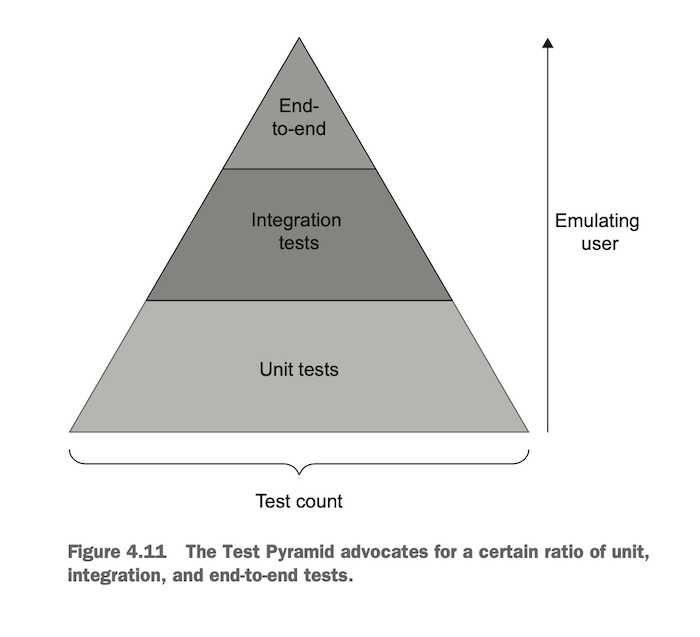
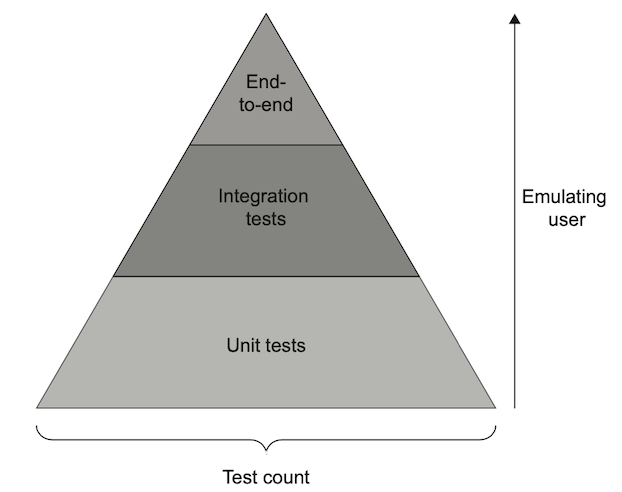
Moving cover image and cleaning up some articles.

Changed region(s): [[0.0611, 0.0305, 0.9775, 0.9146], [0.3055, 0.0305, 0.5498, 0.3049], [0.3666, 0.9451, 0.5193, 1.0]]

diff --git a/theme/templates/index.html b/theme/templates/index.html
@@ -28,11 +28,7 @@ The notes are collecting using my interpretation of the <a href="https://en.wiki
 {% for article in articles_page.object_list %}
 <li>
   <article class="post">
-    <div class="cover-image">
-      {% if article.cover %}
-      <img src="{{ article.cover }}" />
-      {% endif %}
-    </div>
+    
     <div class="article-content">
       <h2>
         <a href="/{{ article.url }}" rel="bookmark" title="Permalink to {{ article.title|striptags }}">{{ article.title }}</a>
@@ -56,11 +52,16 @@ The notes are collecting using my interpretation of the <a href="https://en.wiki
       </div>
 
       <div class="article-summary">
-        {{ article.summary|striptags }}
+        <div class="cover-image">
+          {% if article.cover %}
+          <img src="{{ article.cover }}" />
+          {% endif %}
+        </div>
+        {{ article.summary }}
       </div>
 
       <div class="article-link">
-        <a href="{{ article.url }}">Read More</a>
+        <a href="{{ SITEURL}}/{{ article.url }}">Read More</a>
       </div>
 
       <div class="clear"></div>

diff --git a/theme/templates/base.html b/theme/templates/base.html
@@ -57,7 +57,7 @@
         </span>
 
         {%- for tag, articles in (tags|sort_by_article_count)[:5] -%}
-          <a {% if page_name and page_name|string in tag.url|string %}class="active"{% endif %} href="{{ SITEURL}}/{{ tag.url }}">#{{ tag }} ({{ articles|count }})</a> 
+          <a {% if page_name and page_name|string in tag.url|string %}class="active"{% endif %} href="{{ SITEURL}}/{{ tag.url }}">{{ tag }} ({{ articles|count }})</a> 
         
         {% endfor %}
         <a {% if page_name == "tags" %}class="active"{% endif %} href="/tags.html">More</a>

diff --git a/theme/static/css/style.css b/theme/static/css/style.css
@@ -388,11 +388,6 @@ pre.prettyprint {
   margin-bottom: 25px;
 }
 
-.cover-image img {
-  width: 120px;
-  margin-right: 20px;
-}
-
 .article-link {
   font-size: 1em;
   font-weight: bold;
@@ -416,4 +411,10 @@ ul.pagination li {
 
 .article-content h2 {
   font-size: 1.4em;
+}
+
+.cover-image img {
+  float: left;
+  margin: 0 15px 10px 0;
+  max-width: 300px;
 }

diff --git a/theme/templates/article.html b/theme/templates/article.html
@@ -33,6 +33,12 @@
         </div>
 
         <div class="article-content">
+          <div class="cover-image">
+            {% if article.cover %}
+            <img src="{{ article.cover }}" />
+            {% endif %}
+          </div>
+
           {{ article.content }}
         </div>
 

diff --git a/pelicanconf.py b/pelicanconf.py
@@ -55,3 +55,5 @@ JINJA_FILTERS = {
         sorted,
         key=lambda tags: len(tags[1]),
         reverse=True)} # reversed for descending order
+
+SUMMARY_MAX_LENGTH = 25

diff --git a/public/permanent/4 pillars of good unit tests.md b/public/permanent/4 pillars of good unit tests.md
@@ -1,9 +1,9 @@
 ---
 title: 4 Pillars of Good Unit Tests
 date: 2021-04-04 20:00
+summary: Khorikov's 4 pillars of good unit tests
 tags:
-  - AutomatedTesting
-  - Programming 
+  - Automated Testing
 ---
 
 Khorikov describes 4 pillars of a good unit test:
@@ -15,10 +15,8 @@ Khorikov describes 4 pillars of a good unit test:
 
 He claims that the first 3 are mutually exclusive and provide a 2-out-of-3 trade off similar to the [[CAP Theorem]] trade off. Since maintainability is not mutually exclusive, it should always be maximised. However, some types of tests lend themselves to more maintainabiity: e2e tests for example require a lot more code than a unit test.
 
-Khorikov claims that resistance to refactoring should be maximised always, as it is either binary: it is or it isn't. The trade off is then between resistance to refactoring or fast feedback.
+Resistance to refactoring should be maximised always, as it is either binary: it is or it isn't. The trade off is then between resistance to refactoring or fast feedback.
 
 An extreme example of this is an e2e test. It is extremely resistant to refactoring but not usually very fast. Another example of this is a heavily mocked method, it is very fast but may not provide good protection against regressions, since the mock can easily make assumptions that don't exist. This example would also fail to score high in the resistant to refactoring pillar.
 
-References:
-
-* [[Unit Testing Principles, Practices and Patterns]] (4. The four pillars of a good unit test)
+[@khorikovUnitTestingPrinciples2020] *(Chapter 4)*

diff --git a/public/permanent/ray.md b/public/permanent/ray.md
@@ -1,13 +1,17 @@
 ---
 title: Ray
 date: 2020-11-04 00:00
+summary: A line-like figure that continue indefinitely in one direction
+cover: /_media/ray.png
 tags:
-  - Maths
+  - Game Math
   - Geometry
 ---
 
-In geometry, a ray is a line-like figure that starts at some point - called the "endpoint" or "vertex" - and continues indefinitely in one direction. It is described in formal notation using 2 points with an arrow above it pointing in the direction of the ray, for example: $\overrightarrow{AB}$. The order of the endpoints describes the direction of the ray and cannot be inversed: $\overrightarrow{AB} \neq \overrightarrow{BA}$. As an example, this is the ray $\overrightarrow{AB}$ in Ascii art: `A ---- B ->`
+In geometry, a ray is a line-like figure that starts at some point - called the "endpoint" or "vertex" - and continues indefinitely in one direction. It is described in formal notation using 2 points with an arrow above it pointing in the direction of the ray, for example: $\overrightarrow{AB}$.
 
-References:
+The order of the endpoints describes the direction of the ray. It cannot be inversed.
 
-* [[Basic geometry language and labels]] (Ray)
+$\overrightarrow{AB} \neq \overrightarrow{BA}$.
+
+As an example, this is the ray $\overrightarrow{AB}$ in Ascii art: `A ---- B ->`

diff --git a/public/permanent/Black-box testing.md b/public/permanent/Black-box testing.md
@@ -2,12 +2,14 @@
 title: Black-box testing
 date: 2021-04-04 00:00
 tags:
-  - AutomatedTesting
+  - Automated Testing
+summary: Tests written without knowledge of software's internal structure
 ---
 
 Black-box tests are tests that run without knowing anything about the internal structure of the software. They test what the software is expected to do from a business perspective.
 
 White-box tests are the opposite of that. They test with a good understanding of the internal workings of the software.
 
-Khorikov argues that since black box tests provide the best resistance to refactoring one of the [[4 Pillars of Good Unit Tests]], you should aim to mostly write tests in this style. Reserving white box testing for the analysis of your tests, for example, by utilising [[Test Coverage Metrics]] to examine branch or code coverage. [@khorikovUnitTestingPrinciples2020] (pg. 90)
+Khorikov argues that since black box tests provide the best resistance to refactoring one of the [[4 Pillars of Good Unit Tests]], you should aim to mostly write tests in this style. Reserving white box testing for the analysis of your tests, for example, by utilising [[Test Coverage Metrics]] to examine branch or code coverage. 
 
+[@khorikovUnitTestingPrinciples2020] (pg. 90)

diff --git a/public/permanent/Vector Addition & Subtraction.md b/public/permanent/Vector Addition & Subtraction.md
@@ -1,8 +1,11 @@
 ---
 title: Vector Addition & Subtraction
 date: 2021-01-06 00:00
+cover: /_media/vector-addition-visual.jpg
+summary: Perform an operation on the corresponding parts from two vectors
 tags:
-  - Math 
+  - Game Math
+  - Linear Algebra
 ---
 
 Adding or subtracting 2 vectors is as simple as adding or subtracting the corresponding parts from each vector. 
@@ -11,9 +14,11 @@ $$ \begin{bmatrix} u_1 \\ u_2 \end{bmatrix} + \begin{bmatrix} y_1 \\ y_2 \end{bm
 
 You can therefore only add 2 vectors that are the same size.
 
-Vector addition is represented visually by drawing the 1st vector, then drawing the 2nd vector starting from the tip of the 1st vector, then drawing a line from the tail of the 1st vector to the tip of the 2nd.
+Vector addition is represented visually as follows:
 
-![vector addition visual](./_media/vector-addition-visual.jpg)
+* drawing the 1st vector
+* drawing the 2nd vector starting from the tip of the 1st vector
+* drawing a line from the tail of the 1st vector to the tip of the 2nd (see cover).
 
 See also the [[3 Perspectives of Vectors]].
 

diff --git a/public/permanent/vector scaling.md b/public/permanent/vector scaling.md
@@ -1,9 +1,11 @@
 ---
 title: Vector Scaling
 date: 2020-11-08 00:00
+cover: /_media/vector-scaling-visual.png
+summary: Multiplying each value in a vector by the same value
 tags:
-  - Math
-  - Vectors 
+  - Game Math
+  - Linear Algebra
 ---
 
 Vector scaling is the process of multiplying each value in the vector by some amount (hence "scalar").
@@ -12,12 +14,6 @@ $$ 2 \begin{bmatrix} u_1 \\ u_2 \end{bmatrix} = \begin{bmatrix} 2 * u_1 \\ 2 * u
 
 The amount you scale the vector is often referred to as the [[scalar]].
 
-It can be visualised as growing or shrinking the arrow that represents the vector:
+It can be visualised as growing or shrinking the arrow that represents the vector (see cover image).
 
-![vector scaling visual](./_media/vector-scaling-visual.png)
-
-The choice of how to think about the results of a scaled vector will be informed by the [[3 Perspectives of Vectors]].
-
-References:
-
-* [[Essence of Linear Algebra]] (1. Vectors what even are they)
+How you think about the results of a scaled vector will be informed by the [[3 Perspectives of Vectors]].

diff --git a/public/permanent/test pyramid.md b/public/permanent/test pyramid.md
@@ -2,14 +2,14 @@
 title: Test Pyramid
 date: 2021-04-04 00:00
 tags:
-  - AutomatedTesting
+  - Automated Testing
+cover: /_media/automated-tests.png
+summary: A prescripted balance of automated test types
 ---
 
 The Test Pyramid advocates for a balance of automated tests where unit tests are most prevalent, followed by integration tests then end-to-end (or UI) tests. [@fowlerTestPyramid2012]
 
-Khorikov introduces a varient on the common diagram where the height refers to closeness to "emulating the end user's behaviour: [@khorikovUnitTestingPrinciples2020] *(pg. 87)*
-
-![Test Pyramid](../_media/automated-tests.png)
+Khorikov introduces a varient on the common diagram where the height refers to closeness to "emulating the end user's behaviour (used as cover image) [@khorikovUnitTestingPrinciples2020] *(pg. 87)*.
 
 The Test Pyramid is a little misleading in that people interpret as unit tests are better, e2e tests are worse. But they are only better in the sense that they are faster and less prone to noise and false positives.
 

diff --git a/public/permanent/3 perspectives of vectors.md b/public/permanent/3 perspectives of vectors.md
@@ -2,11 +2,10 @@
 title: 3 Perspectives of Vectors
 date: 2020-11-08 18:00
 tags: 
-  - Math
-  - LinearAlgebra 
+  - Linear Algebra 
 ---
 
-[[3Blue1Brown]] says that there are 3 different perspectives for understanding vectors:
+There are 3 different perspectives for understanding vectors:
 
 * **Physicist**: they consider a vector to be an arrow pointing in space defined by  its length (called magnitude) and direction. This is often how students are first introduced to vectors in math classes.
         * Vectors from this perspective are written numerically by using the coordinates. In 2d space, the numbers should how far in the x-axis to travel and how far in the y-axis to draw the vector.
@@ -14,6 +13,4 @@ tags:
         * The numbers can be plotted on a coordinate system to see how they relate to each other.
 * **Mathematician**: anything which has a notion of adding 2 vectors together and multiplying a vector by a number.
 
-References:
-
-* [[Essence of Linear Algebra]]
+[@3blue1brownVectorsChapterEssence2016]
